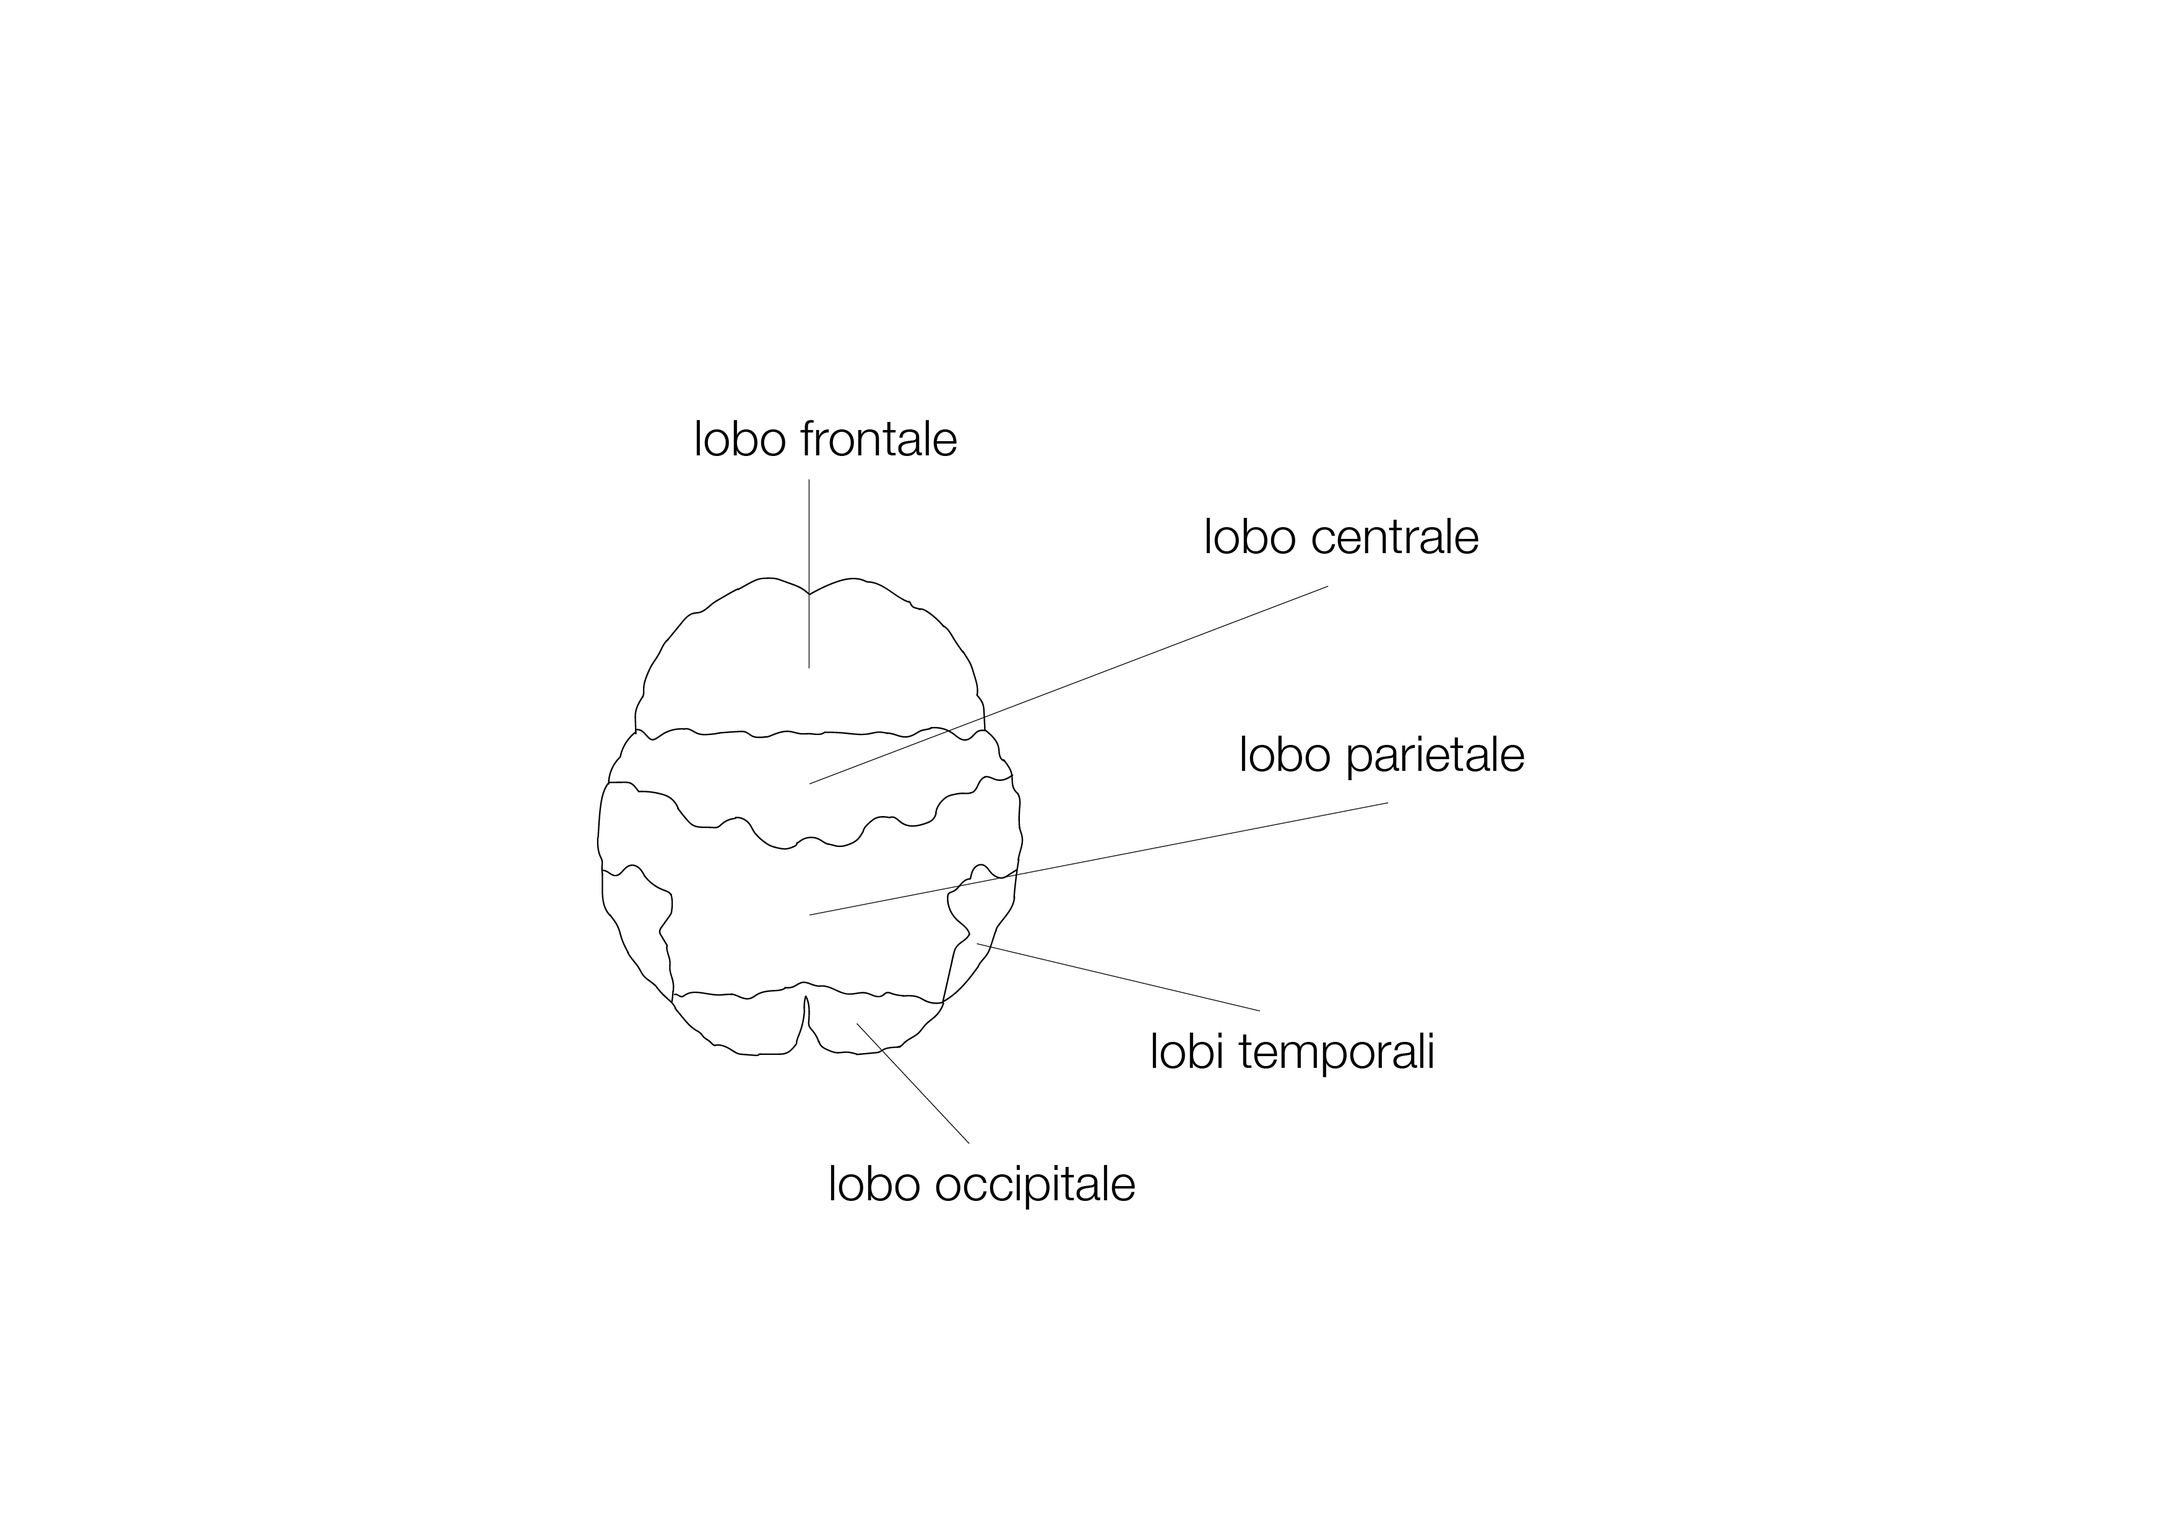
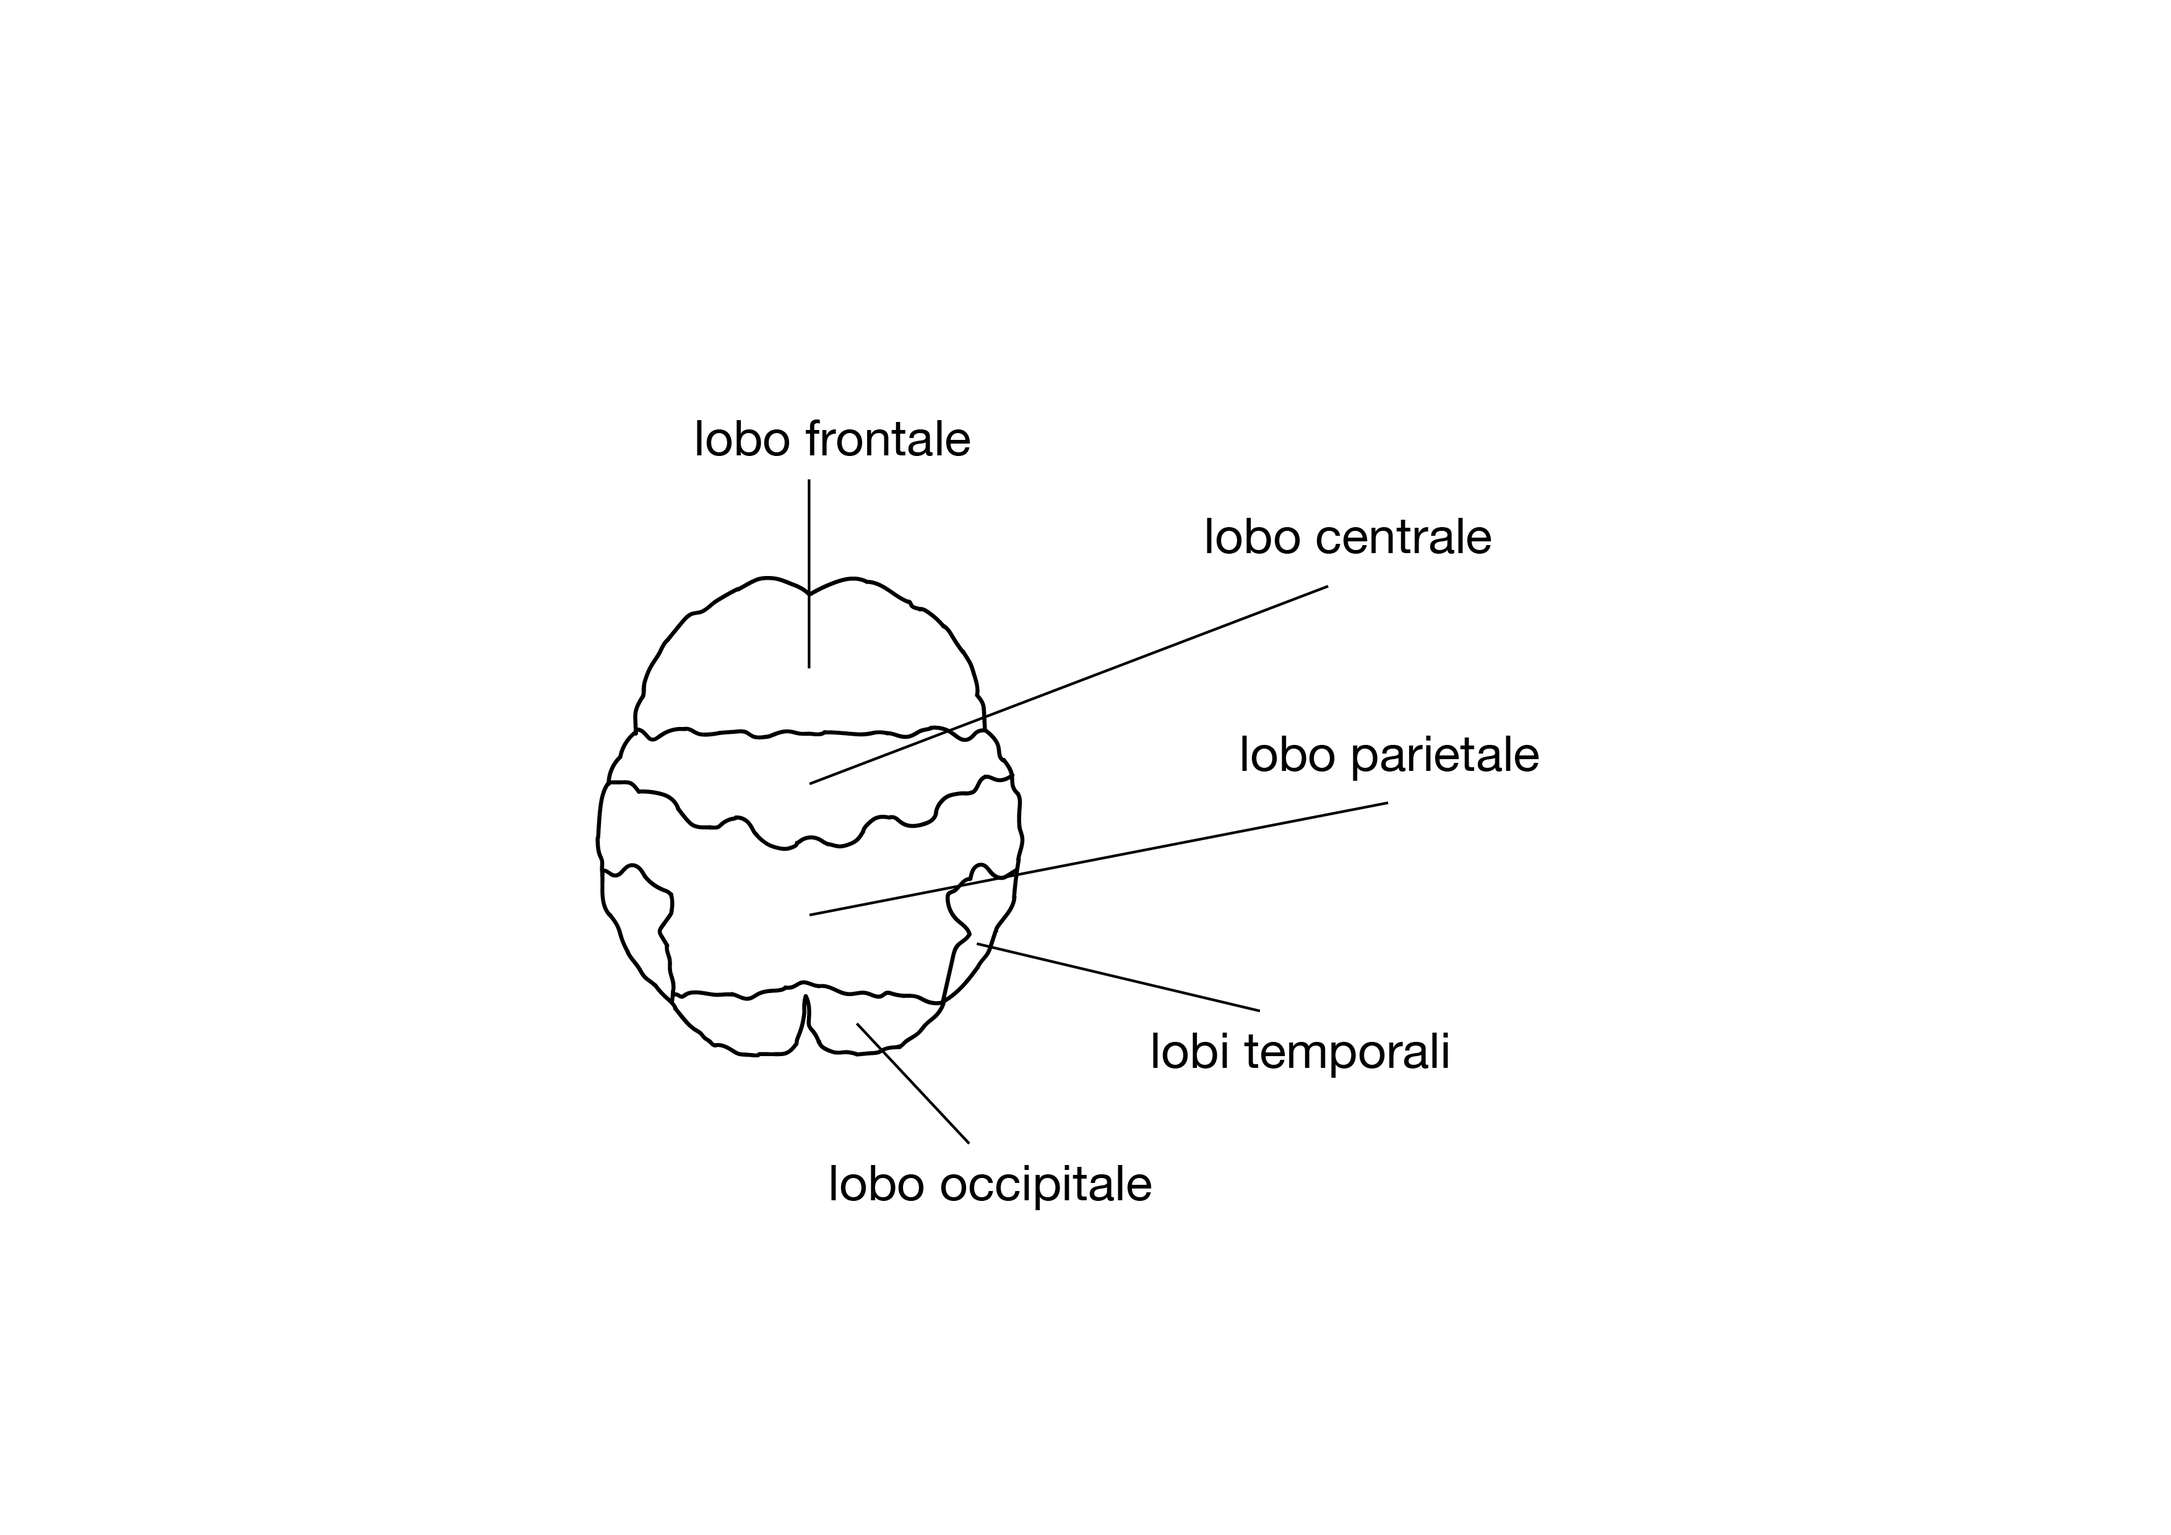
Add files via upload

diff --git a/project .html b/project .html
@@ -1,0 +1,140 @@
+<!DOCTYPE html>
+<html lang="it">
+<head>
+  <meta charset="UTF-8">
+  <meta name="viewport" content="width=device-width, initial-scale=1.0">
+  <title>project — nome progetto</title>
+  <link rel="preconnect" href="https://fonts.googleapis.com">
+  <link rel="preconnect" href="https://fonts.gstatic.com" crossorigin>
+  <link href="https://fonts.googleapis.com/css2?family=Archivo:wght@400;500;600;700&display=swap" rel="stylesheet">
+  <style>
+    :root{
+      --bg:#ffffff;
+      --ink:#111111;
+      --ink-soft:#9a9a9a;
+      --rule:#111111;
+      --pad:clamp(1.5rem, 4vw, 3rem);
+    }
+    *{box-sizing:border-box;}
+    html,body{margin:0;padding:0;}
+    body{
+      min-height:100vh;
+      background:var(--bg);
+      color:var(--ink);
+      font-family:"Archivo","Helvetica Neue",Arial,sans-serif;
+      -webkit-font-smoothing:antialiased;
+      line-height:1.6;
+      padding-bottom:var(--pad);
+    }
+
+    /* ===== HEADER ===== */
+    .site-header{
+      display:flex;
+      justify-content:space-between;
+      align-items:baseline;
+      gap:2rem;
+      padding:var(--pad) var(--pad) 0;
+    }
+    .brand{
+      font-size:1.3rem; font-weight:600; letter-spacing:-0.01em;
+      color:var(--ink); text-decoration:none;
+      transition:color .25s ease;
+    }
+    .brand:hover,
+    .brand:focus-visible{color:var(--ink-soft);}
+    .nav{display:flex; gap:2.5rem;}
+    .nav a{
+      font-size:1.3rem; font-weight:600; letter-spacing:-0.01em;
+      color:var(--ink); text-decoration:none;
+      transition:color .25s ease;
+    }
+    .nav a:hover,
+    .nav a:focus-visible{color:var(--ink-soft);}
+
+    /* ===== TITOLO PAGINA ===== */
+    .page-title{
+      font-size:clamp(2.5rem, 7vw, 4.5rem);
+      font-weight:600;
+      letter-spacing:-0.03em;
+      line-height:1;
+      margin:clamp(1rem, 3vw, 2rem) 0 0;
+      padding:0 var(--pad);
+    }
+
+    /* ===== COLONNE ===== */
+    .columns{
+      display:grid;
+      grid-template-columns:repeat(3, 1fr);
+      margin-top:clamp(2rem, 5vw, 3.5rem);
+      padding:0 var(--pad);
+    }
+    .column{padding:0 clamp(1rem, 2.4vw, 1.8rem);}
+    .column + .column{border-left:1px solid var(--rule);}
+    .column h2{
+      text-align:center;
+      font-size:1rem;
+      font-weight:600;
+      letter-spacing:-0.01em;
+      margin:0 0 1.4rem;
+    }
+    .column p{
+      font-size:0.8rem;
+      line-height:1.65;
+      text-align:justify;
+      hyphens:auto;
+      margin:0 0 0.9rem;
+    }
+
+    @media (max-width:760px){
+      .nav{gap:1.25rem;}
+      .columns{grid-template-columns:1fr;}
+      .column{padding:0;}
+      .column + .column{
+        border-left:none;
+        border-top:1px solid var(--rule);
+        margin-top:2rem;
+        padding-top:2rem;
+      }
+    }
+  </style>
+</head>
+<body>
+
+  <header class="site-header">
+    <a class="brand" href="index.html">nome progetto</a>
+    <nav class="nav">
+      <a href="project.html">project</a>
+      <a href="about.html">about us</a>
+    </nav>
+  </header>
+
+  <h1 class="page-title">project</h1>
+
+  <section class="columns">
+    <article class="column">
+      <h2>spiegazione alzheimer</h2>
+      <p>Lorem ipsum dolor sit amet, consectetuer adipiscing elit, sed diam nonummy nibh euismod tincidunt ut laoreet dolore magna aliquam erat volutpat. Ut wisi enim ad minim veniam, quis nostrud exerci tation ullamcorper suscipit lobortis nisl ut aliquip ex ea commodo consequat.</p>
+      <p>Duis autem vel eum iriure dolor in hendrerit in vulputate velit esse molestie consequat, vel illum dolore eu feugiat nulla facilisis at vero eros et accumsan et iusto odio dignissim qui blandit praesent luptatum zzril delenit augue duis dolore te feugait nulla facilisi.</p>
+      <p>Nam liber tempor cum soluta nobis eleifend option congue nihil imperdiet doming id quod mazim placerat facer possim assum. Lorem ipsum dolor sit amet, consectetuer adipiscing elit, sed diam nonummy nibh euismod tincidunt ut laoreet dolore magna aliquam erat volutpat.</p>
+      <p>Ut wisi enim ad minim veniam, quis nostrud exerci tation ullamcorper suscipit lobortis nisl ut aliquip ex ea commodo consequat. Duis autem vel eum iriure dolor in hendrerit in vulputate velit esse molestie consequat.</p>
+    </article>
+
+    <article class="column">
+      <h2>spiegazione dataset</h2>
+      <p>Lorem ipsum dolor sit amet, consectetuer adipiscing elit, sed diam nonummy nibh euismod tincidunt ut laoreet dolore magna aliquam erat volutpat. Ut wisi enim ad minim veniam, quis nostrud exerci tation ullamcorper suscipit lobortis nisl ut aliquip ex ea commodo consequat.</p>
+      <p>Duis autem vel eum iriure dolor in hendrerit in vulputate velit esse molestie consequat, vel illum dolore eu feugiat nulla facilisis at vero eros et accumsan et iusto odio dignissim qui blandit praesent luptatum zzril delenit augue duis dolore te feugait nulla facilisi.</p>
+      <p>Nam liber tempor cum soluta nobis eleifend option congue nihil imperdiet doming id quod mazim placerat facer possim assum. Typi non habent claritatem insitam; est usus legentis in iis qui facit eorum claritatem.</p>
+      <p>Investigationes demonstraverunt lectores legere me lius quod ii legunt saepius. Claritas est etiam processus dynamicus, qui sequitur mutationem consuetudium lectorum. Mirum est notare quam littera gothica.</p>
+    </article>
+
+    <article class="column">
+      <h2>spiegazione progetto</h2>
+      <p>Lorem ipsum dolor sit amet, consectetuer adipiscing elit, sed diam nonummy nibh euismod tincidunt ut laoreet dolore magna aliquam erat volutpat. Ut wisi enim ad minim veniam, quis nostrud exerci tation ullamcorper suscipit lobortis nisl ut aliquip ex ea commodo consequat.</p>
+      <p>Duis autem vel eum iriure dolor in hendrerit in vulputate velit esse molestie consequat, vel illum dolore eu feugiat nulla facilisis at vero eros et accumsan et iusto odio dignissim qui blandit praesent luptatum zzril delenit augue duis dolore te feugait nulla facilisi.</p>
+      <p>Nam liber tempor cum soluta nobis eleifend option congue nihil imperdiet doming id quod mazim placerat facer possim assum. Lorem ipsum dolor sit amet, consectetuer adipiscing elit, sed diam nonummy nibh euismod tincidunt.</p>
+      <p>Ut laoreet dolore magna aliquam erat volutpat. Ut wisi enim ad minim veniam, quis nostrud exerci tation ullamcorper suscipit lobortis nisl ut aliquip ex ea commodo consequat duis autem vel eum.</p>
+    </article>
+  </section>
+
+</body>
+</html>

diff --git a/about .html b/about .html
@@ -1,0 +1,103 @@
+<!DOCTYPE html>
+<html lang="it">
+<head>
+  <meta charset="UTF-8">
+  <meta name="viewport" content="width=device-width, initial-scale=1.0">
+  <title>about us — nome progetto</title>
+  <link rel="preconnect" href="https://fonts.googleapis.com">
+  <link rel="preconnect" href="https://fonts.gstatic.com" crossorigin>
+  <link href="https://fonts.googleapis.com/css2?family=Archivo:wght@400;500;600;700&display=swap" rel="stylesheet">
+  <style>
+    :root{
+      --bg:#ffffff;
+      --ink:#111111;
+      --ink-soft:#9a9a9a;
+      --rule:#111111;
+      --pad:clamp(1.5rem, 4vw, 3rem);
+    }
+    *{box-sizing:border-box;}
+    html,body{margin:0;padding:0;}
+    body{
+      min-height:100vh;
+      background:var(--bg);
+      color:var(--ink);
+      font-family:"Archivo","Helvetica Neue",Arial,sans-serif;
+      -webkit-font-smoothing:antialiased;
+      line-height:1.6;
+      padding-bottom:var(--pad);
+    }
+
+    /* ===== HEADER ===== */
+    .site-header{
+      display:flex;
+      justify-content:space-between;
+      align-items:baseline;
+      gap:2rem;
+      padding:var(--pad) var(--pad) 0;
+    }
+    .brand{
+      font-size:1.3rem; font-weight:600; letter-spacing:-0.01em;
+      color:var(--ink); text-decoration:none;
+      transition:color .25s ease;
+    }
+    .brand:hover,
+    .brand:focus-visible{color:var(--ink-soft);}
+    .nav{display:flex; gap:2.5rem;}
+    .nav a{
+      font-size:1.3rem; font-weight:600; letter-spacing:-0.01em;
+      color:var(--ink); text-decoration:none;
+      transition:color .25s ease;
+    }
+    .nav a:hover,
+    .nav a:focus-visible{color:var(--ink-soft);}
+
+    /* ===== TITOLO PAGINA ===== */
+    .page-title{
+      font-size:clamp(2.5rem, 7vw, 4.5rem);
+      font-weight:600;
+      letter-spacing:-0.03em;
+      line-height:1;
+      margin:clamp(1rem, 3vw, 2rem) 0 0;
+      padding:0 var(--pad);
+    }
+
+    /* ===== TESTO ABOUT ===== */
+    .about-body{
+      margin:clamp(2.5rem, 6vw, 4rem) var(--pad) 0;
+      max-width:520px;
+    }
+    .about-body p{
+      font-size:0.85rem;
+      line-height:1.7;
+      text-align:justify;
+      hyphens:auto;
+      margin:0 0 0.95rem;
+    }
+
+    @media (max-width:760px){
+      .nav{gap:1.25rem;}
+      .about-body{max-width:none;}
+    }
+  </style>
+</head>
+<body>
+
+  <header class="site-header">
+    <a class="brand" href="index.html">nome progetto</a>
+    <nav class="nav">
+      <a href="project.html">project</a>
+      <a href="about.html">about us</a>
+    </nav>
+  </header>
+
+  <h1 class="page-title">about us</h1>
+
+  <div class="about-body">
+    <p>Lorem ipsum dolor sit amet, consectetuer adipiscing elit, sed diam nonummy nibh euismod tincidunt ut laoreet dolore magna aliquam erat volutpat. Ut wisi enim ad minim veniam, quis nostrud exerci tation ullamcorper suscipit lobortis nisl ut aliquip ex ea commodo consequat. Duis autem vel eum iriure dolor in hendrerit in vulputate velit esse molestie consequat.</p>
+    <p>Vel illum dolore eu feugiat nulla facilisis at vero eros et accumsan et iusto odio dignissim qui blandit praesent luptatum zzril delenit augue duis dolore te feugait nulla facilisi. Nam liber tempor cum soluta nobis eleifend option congue nihil imperdiet doming id quod mazim placerat facer possim assum.</p>
+    <p>Lorem ipsum dolor sit amet, consectetuer adipiscing elit, sed diam nonummy nibh euismod tincidunt ut laoreet dolore magna aliquam erat volutpat. Ut wisi enim ad minim veniam, quis nostrud exerci tation ullamcorper suscipit lobortis nisl ut aliquip ex ea commodo consequat.</p>
+    <p>Duis autem vel eum iriure dolor in hendrerit in vulputate velit esse molestie consequat, vel illum dolore eu feugiat nulla facilisis at vero eros et accumsan et iusto odio dignissim qui blandit praesent.</p>
+  </div>
+
+</body>
+</html>

diff --git a/index .html b/index .html
@@ -1,0 +1,127 @@
+<!DOCTYPE html>
+<html lang="it">
+<head>
+  <meta charset="UTF-8">
+  <meta name="viewport" content="width=device-width, initial-scale=1.0">
+  <title>nome progetto</title>
+  <link rel="preconnect" href="https://fonts.googleapis.com">
+  <link rel="preconnect" href="https://fonts.gstatic.com" crossorigin>
+  <link href="https://fonts.googleapis.com/css2?family=Archivo:wght@400;500;600;700&display=swap" rel="stylesheet">
+  <style>
+    :root{
+      --bg:#ffffff;
+      --ink:#111111;
+      --ink-soft:#9a9a9a;   /* grigio dell'hover */
+      --rule:#111111;
+      --pad:clamp(1.5rem, 4vw, 3rem);
+    }
+    *{box-sizing:border-box;}
+    html,body{margin:0;padding:0;}
+    body{
+      position:relative;
+      min-height:100vh;
+      display:flex;
+      flex-direction:column;
+      background:var(--bg);
+      color:var(--ink);
+      font-family:"Archivo","Helvetica Neue",Arial,sans-serif;
+      -webkit-font-smoothing:antialiased;
+      line-height:1.6;
+    }
+
+    /* ===== HEADER ===== */
+    .site-header{
+      display:flex;
+      justify-content:space-between;
+      align-items:baseline;
+      gap:2rem;
+      padding:var(--pad) var(--pad) 0;
+    }
+    .brand{
+      font-size:1.3rem;
+      font-weight:600;
+      letter-spacing:-0.01em;
+      color:var(--ink);
+      text-decoration:none;
+      transition:color .25s ease;
+    }
+    .brand:hover,
+    .brand:focus-visible{color:var(--ink-soft);}
+    .nav{display:flex; gap:2.5rem;}
+    .nav a{
+      font-size:1.3rem;
+      font-weight:600;
+      letter-spacing:-0.01em;
+      color:var(--ink);
+      text-decoration:none;
+      transition:color .25s ease;        /* nero -> grigio dolce */
+    }
+    .nav a:hover,
+    .nav a:focus-visible{color:var(--ink-soft);}
+
+    /* ===== HOME ===== */
+    .home-main{
+      flex:1;
+      display:flex;
+      align-items:center;
+      justify-content:center;
+      padding:var(--pad);
+    }
+    .video-box{
+      width:100%;
+      max-width:720px;
+      aspect-ratio:16 / 9;
+      border:1px solid var(--ink);
+      display:flex;
+      align-items:center;
+      justify-content:center;
+      font-size:1.4rem;
+      color:var(--ink);
+    }
+    .video-box video,
+    .video-box iframe{width:100%; height:100%; border:0; object-fit:cover; display:block;}
+
+    .legenda{
+      position:absolute;
+      left:var(--pad);
+      bottom:var(--pad);
+      width:clamp(240px, 26vw, 340px);
+      height:auto;
+    }
+
+    @media (max-width:760px){
+      .nav{gap:1.25rem;}
+      .home-main{flex:none;}
+      .legenda{position:static; display:block; margin:2rem auto 0; width:260px;}
+    }
+  </style>
+</head>
+<body>
+
+  <header class="site-header">
+    <a class="brand" href="index.html">nome progetto</a>
+    <nav class="nav">
+      <a href="project.html">project</a>
+      <a href="about.html">about us</a>
+    </nav>
+  </header>
+
+  <main class="home-main">
+    <!-- BOX VIDEO
+         Per ora c'è solo la scritta "video". Per inserire un video vero, sostituisci
+         <div class="video-box">video</div> con UNA di queste due opzioni:
+
+         1) File caricato nella stessa cartella:
+            <div class="video-box"><video controls poster="anteprima.jpg"><source src="video.mp4" type="video/mp4"></video></div>
+
+         2) YouTube/Vimeo (incolla l'iframe di "Condividi > Incorpora"):
+            <div class="video-box"><iframe src="https://www.youtube.com/embed/CODICE" allowfullscreen></iframe></div>
+    -->
+    <div class="video-box">video</div>
+  </main>
+
+  <!-- LEGENDA: salva la tua immagine del cervello come  legenda.png  nella stessa cartella dei file -->
+  <img class="legenda" src="legenda.png" alt="Legenda dei lobi del cervello">
+
+</body>
+</html>
